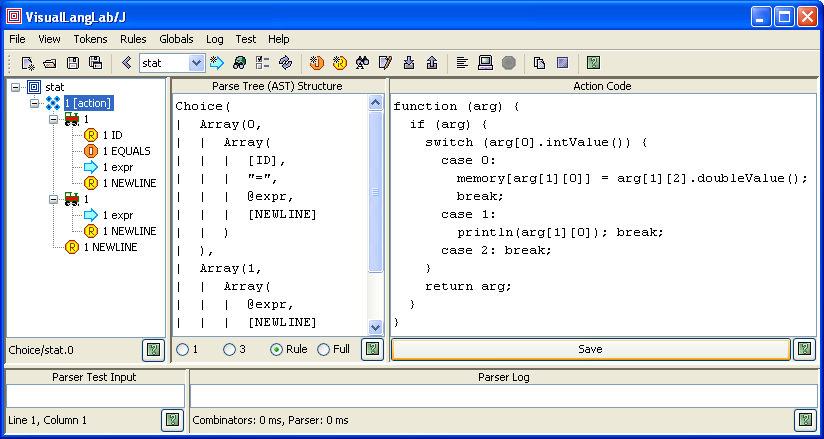
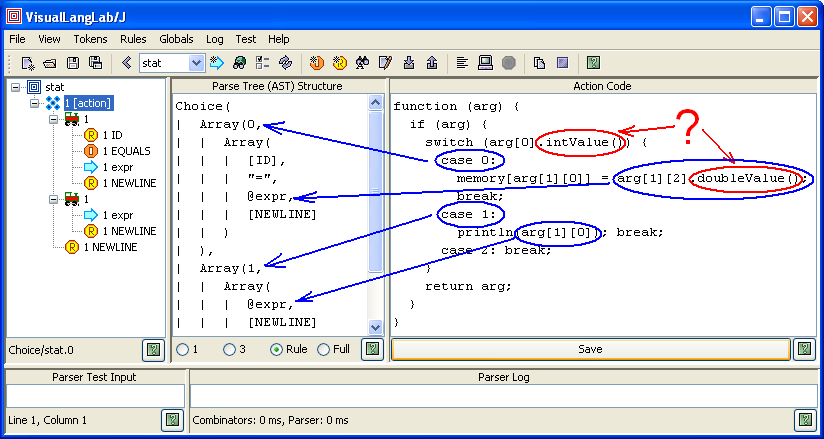
Updates to "A Quick Tour"
git-svn-id: https://svn.java.net/svn/vll~svn/trunk@343 c0272bae-d8de-c28f-bcdf-8b42aff4940e

diff --git a/VLLS/docs/examples/a-quick-tour.html b/VLLS/docs/examples/a-quick-tour.html
@@ -13,8 +13,8 @@
 <h1 id="AQuickTour">VisualLangLab - A Quick Tour</h1>
 
 <p>
-This tutorial uses <a href="http://vll.java.net/">VisualLangLab</a> to create a parser 
-like the one discussed in chapter 3 (<i>A Quick Tour for the Impatient</i>) of the book 
+This tutorial uses <a href="http://vll.java.net/">VisualLangLab</a> to explore 
+the scenarios and examples in chapter 3 (<i>A Quick Tour for the Impatient</i>) of the book 
 <a href="http://pragprog.com/book/tpantlr/the-definitive-antlr-reference">
 The Definitive ANTLR Reference</a>. 
 The grammars used can be found online at this link: 
@@ -427,16 +427,16 @@ If you see error messages or find other problems, verify the following:
 
 <table border="1" style="border: 1px solid black;">
 <tr><th align="center" colspan="3">Token Definitions</th></tr>
-<tr><td align="center">Name</td><td align="center">Type</td><td align="center">Pattern</td></tr>
-<tr><td align="center">EQUALS</td><td align="center">L</td><td align="center">=</td></tr>
-<tr><td align="center">ID</td><td align="center">R</td><td align="center">[a-zA-Z]+</td></tr>
-<tr><td align="center">INT</td><td align="center">R</td><td align="center">\\d+</td></tr>
-<tr><td align="center">LPAREN</td><td align="center">L</td><td align="center">(</td></tr>
-<tr><td align="center">MINUS</td><td align="center">L</td><td align="center">-</td></tr>
-<tr><td align="center">MULT</td><td align="center">L</td><td align="center">*</td></tr>
-<tr><td align="center">NEWLINE</td><td align="center">R</td><td align="center">\\r?\\n</td></tr>
-<tr><td align="center">PLUS</td><td align="center">L</td><td align="center">+</td></tr>
-<tr><td align="center">RPAREN</td><td align="center">L</td><td align="center">)</td></tr>
+<tr><th align="center">Name</th><th align="center">Type</th><th align="center">Pattern</th></tr>
+<tr><td align="center">EQUALS</td><td align="center">Literal</td><td align="center">=</td></tr>
+<tr><td align="center">ID</td><td align="center">Regex</td><td align="center">[a-zA-Z]+</td></tr>
+<tr><td align="center">INT</td><td align="center">Regex</td><td align="center">\\d+</td></tr>
+<tr><td align="center">LPAREN</td><td align="center">Literal</td><td align="center">(</td></tr>
+<tr><td align="center">MINUS</td><td align="center">Literal</td><td align="center">-</td></tr>
+<tr><td align="center">MULT</td><td align="center">Literal</td><td align="center">*</td></tr>
+<tr><td align="center">NEWLINE</td><td align="center">Regex</td><td align="center">\\r?\\n</td></tr>
+<tr><td align="center">PLUS</td><td align="center">Literal</td><td align="center">+</td></tr>
+<tr><td align="center">RPAREN</td><td align="center">Literal</td><td align="center">)</td></tr>
 </table>
 
 <p>
@@ -470,7 +470,7 @@ but you can learn more details at
 <a href="../ASTAndActionCode.html#ActionCodeDesign">Action Code Design</a>. 
 </p>
 
-<h3 id="SomeBasics">Some Basics</h3>
+<h3 id="ActionCodeBasics">Action Code Basics</h3>
 
 <p>
 Action code in VisualLangLab is written not as a <i>code snippet</i> 
@@ -626,6 +626,16 @@ The text of the action-code for this parser-rule is given below.
 </tr></table>
 
 
+<p>
+If you're still wondering why the <code>intValue()</code> and <code>doubleValue()</code> calls 
+are required, here's the secret: Since the argument to the function is (in this case) 
+an array of Java <code>Object</code>s, all primitive Java types are autoboxed. So a Java 
+<code>int</code> and <code>double</code> become a <code>java.lang.Integer</code> and 
+<code>java.lang.Double</code> respectively, and JavaScript has to extract the original 
+values using <code>intValue()</code> and <code>doubleValue()</code> explicitly as it 
+does not know about <a href="http://docs.oracle.com/javase/1.5.0/docs/guide/language/autoboxing.html">auto unboxing</a>. 
+</p>
+
 <h3 id="ActionForAtom">Action for 'atom'</h3>
 
 <p>
@@ -755,7 +765,7 @@ Proceed as follows.
 <ul style="list-style-type: disc;">
   <li>select <i>Prog</i> in the toolbar's dropdown list</li>
   <li>enter the test input string into the text area under <i>Parser Test Input</i>. 
-      Remember to end the string with a final NEWLINE (use the ENTER or RETURN key)</li>
+      <u>Remember to end the string with a final NEWLINE (use the ENTER or RETURN key)</u></li>
   <li>click the <i>Parse input</i> button. The result appears in the text area under 
       <i>Parser Log</i></li>
 </ul>
